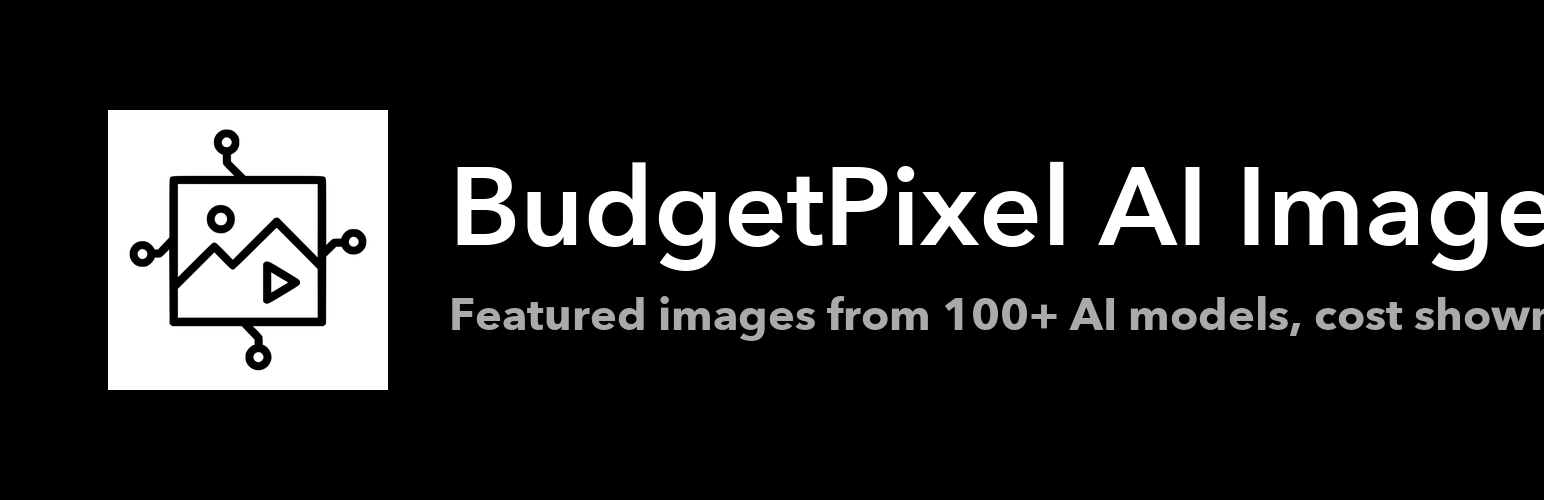
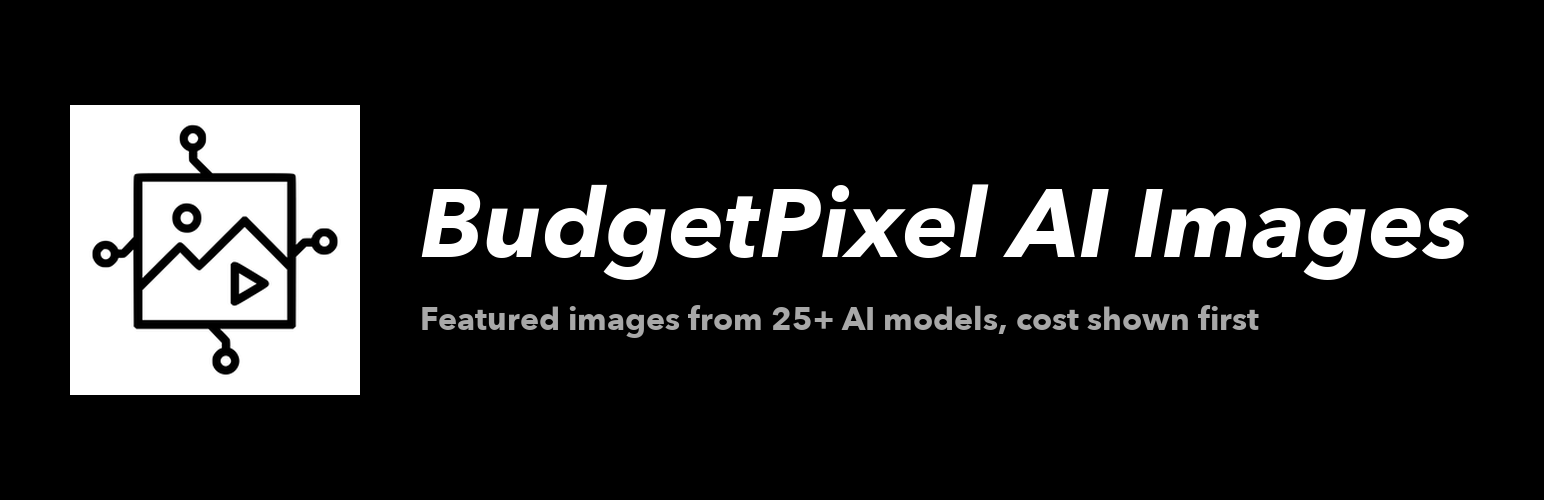
patch: prepare for the WordPress.org publish
- deploy workflow takes an explicit version on a manual run; the action
  otherwise reads the version from the git ref, which on workflow_dispatch
  is a branch and would create an SVN tag named refs/heads/main
- regenerate both listing banners: the text ran off the right edge, and
  they claimed "100+ AI models" where the plugin lists 25+
- README points at the approved directory listing

Changed region(s): [[0.0311, 0.21, 1.0, 0.81]]

diff --git a/README.md b/README.md
@@ -10,7 +10,7 @@ Generate a featured image or inline image for any post from its title and excerp
 
 Download `budgetpixel-ai-images.zip` from the [latest release](https://github.com/budgetpixel-ai/wordpress-budgetpixel/releases/latest) and upload it under Plugins → Add New → Upload Plugin, or clone this repository into `wp-content/plugins/budgetpixel-ai-images`.
 
-WordPress.org listing: pending review. Slug `budgetpixel-ai-images` (derived from the plugin name; the text domain matches).
+WordPress.org listing: https://wordpress.org/plugins/budgetpixel-ai-images/ — approved 2026-09-12. The easiest install is Plugins → Add New → search "BudgetPixel AI Images"; releases here stay in step with the directory (keep the directory version >= the GitHub release so GitHub installs auto-update).
 
 ## Development
 
